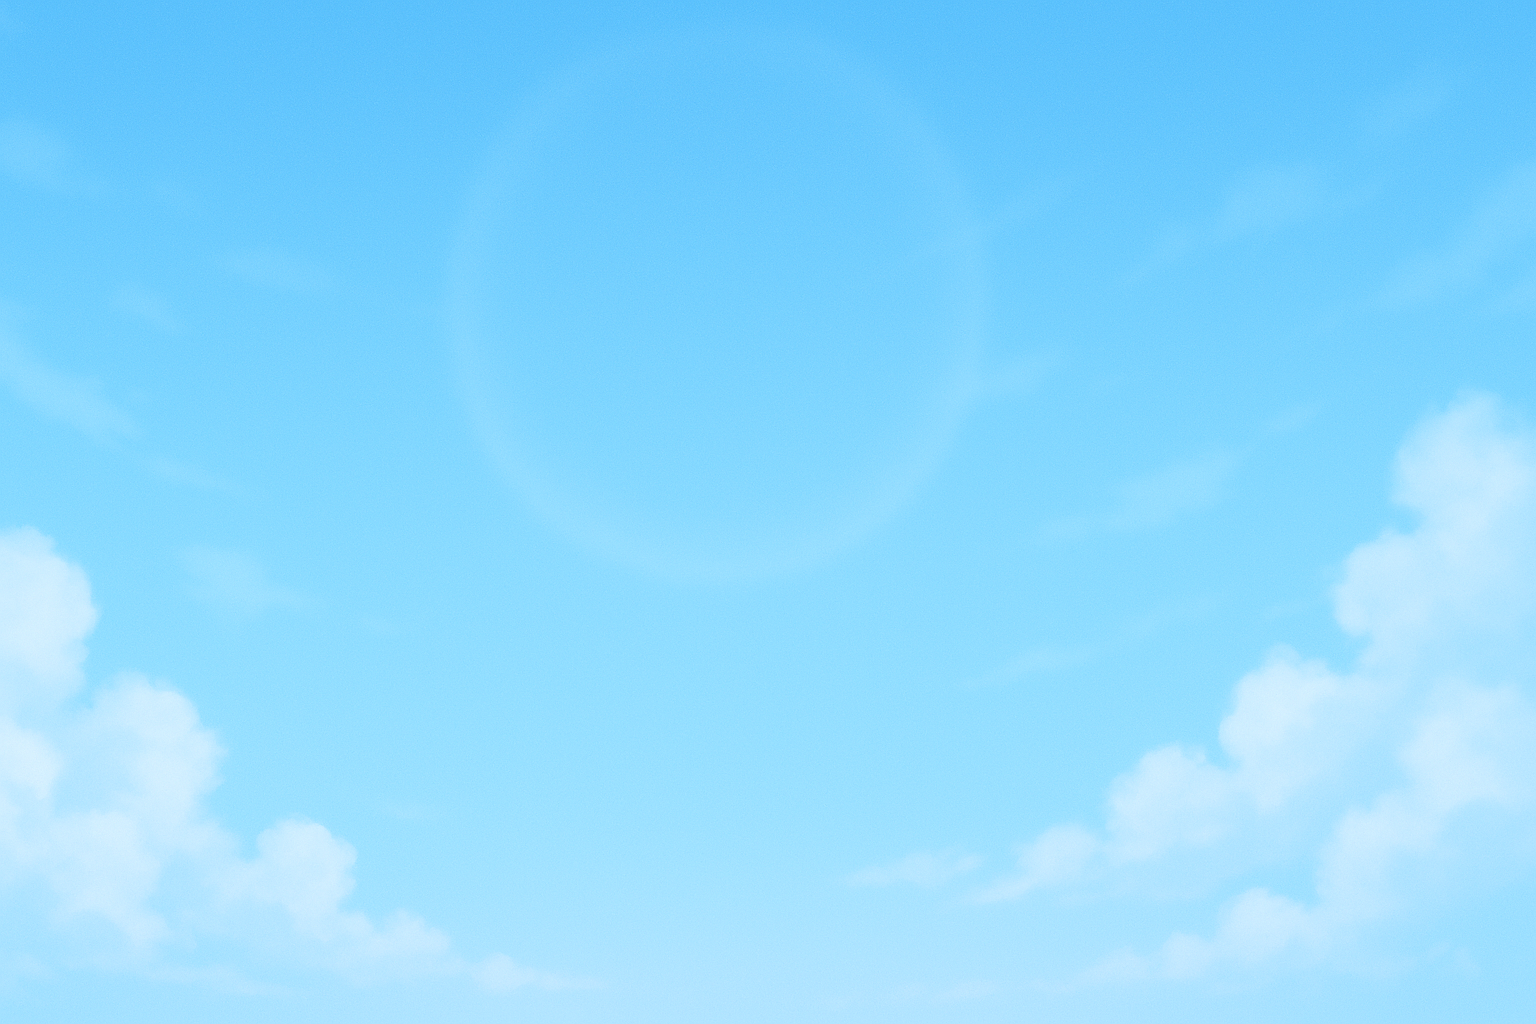
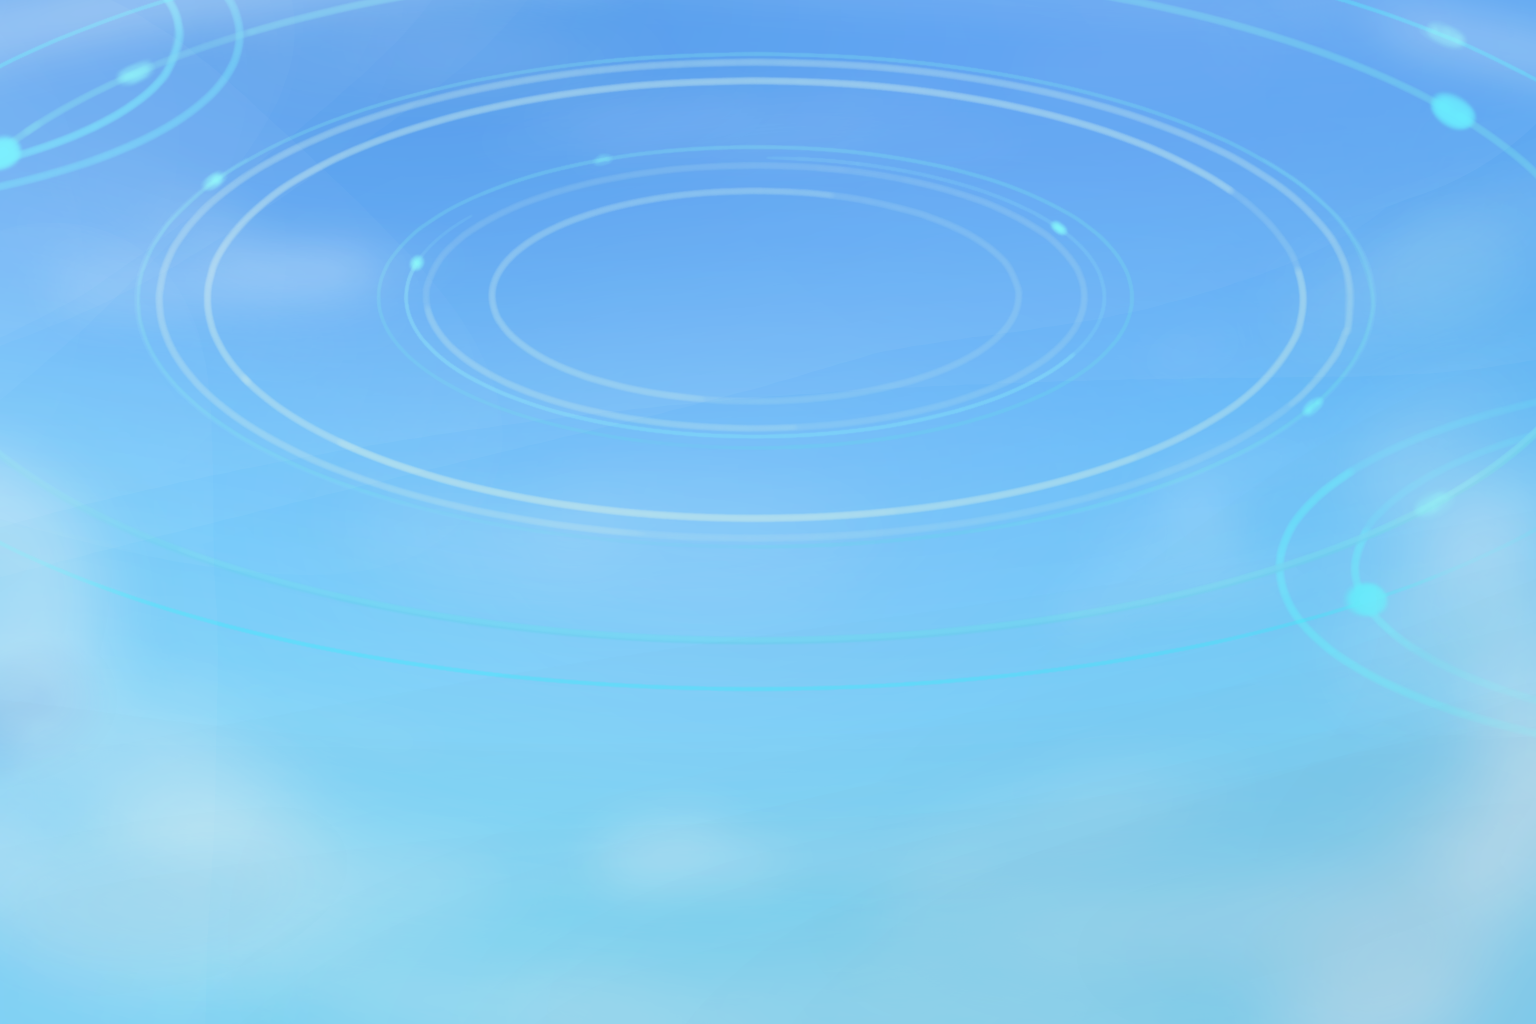
contributors, - 스크롤 내리면 나오는 인포 아래 파일로 수정
[인포_최최종.zip]

- 웹 사이트 배경 이미지 변경

- 공식웹x 표기, 라이센스 추가

diff --git a/index.html b/index.html
@@ -142,7 +142,6 @@
 
     /* ===== Mobile layout (≤900px): 하단 배너 아래에 좌/우 버튼 배치 ===== */
     @media (max-width: 900px){
-      /* 하단 영역을 2행 그리드로: 1행=배너(2칸), 2행=왼쪽/오른쪽 버튼 */
       .hero-bottom{
         display:grid;
         grid-template-columns: 1fr 1fr;
@@ -154,65 +153,35 @@
         row-gap:.6rem;
         column-gap:.75rem;
         width:100%;
-        /* 좌우/하단 여백 + 노치/홈 인디케이터 안전영역 */
         padding: .25rem 16px calc(14px + env(safe-area-inset-bottom, 0px));
       }
-
-      /* 배너는 1행 전체 */
-      .hero-banner.hero-banner-bottom{
-        grid-area: banner;
-        margin: .35rem 0 .15rem 0; /* 배너 아래 공간 조금 */
-      }
-
-      /* 데스크톱용 절대배치/트랜스폼 해제하고, 그리드 셀 중앙 정렬 */
+      .hero-banner.hero-banner-bottom{ grid-area: banner; margin: .35rem 0 .15rem 0; }
       .hero-location-shell,
-      .hero-play-shell{
-        position: static;
-        transform: none;
-        pointer-events: none; /* 내부 이미지만 클릭 */
-        width: 100%;
-        display: flex;
-        justify-content: center;
-      }
+      .hero-play-shell{ position: static; transform: none; pointer-events: none; width: 100%; display: flex; justify-content: center; }
       .hero-location-shell{ grid-area: left; }
       .hero-play-shell{ grid-area: right; }
-
-      /* 버튼 크기: 너무 크거나 작지 않게, 화면 안쪽으로 */
-      .hero-location,
-      .hero-play{
-        pointer-events: auto;
-        width: clamp(140px, 42vw, 200px);
-        height: auto;
-        max-width: 200px;
-      }
-
-      /* 히어로 본체/배너 크기 약간 보수 */
+      .hero-location, .hero-play{ pointer-events:auto; width: clamp(140px, 42vw, 200px); height:auto; max-width:200px; }
       .hero-img{ max-width:78vw; max-height:56vh; }
       .hero-banner{ width:min(320px,78vw); }
     }
 
-    /* iOS/Safari에서 fixed 배경 이슈 회피 */
     @media (max-width: 900px){
       body{
           background-image: url('./assets/background_mobile.png?v=1');
-          background-attachment: scroll;   /* fixed → scroll (모바일에서 튀는 현상 방지) */
+          background-attachment: scroll;
           background-position: center top;
           background-size: cover;
       }
     }
 
-    /* ===== Scroll indicator (hero의 직속 자식으로 배치) ===== */
+    /* ===== Scroll indicator ===== */
     .scroll-indicator{
-      position:absolute;      /* 부모: .hero */
-      bottom:14px;
-      left:50%;
-      transform:translateX(-50%);
+      position:absolute;
+      bottom:14px; left:50%; transform:translateX(-50%);
       display:flex; flex-direction:column; align-items:center;
       font-size:12px; font-weight:700; letter-spacing:.08em;
-      color:#e2e8f0; opacity:.9;
-      animation:bounce 1.8s infinite;
-      pointer-events:none;
-      z-index:1000;
+      color:#e2e8f0; opacity:.9; animation:bounce 1.8s infinite;
+      pointer-events:none; z-index:1000;
       text-shadow:0 2px 10px rgba(0,0,0,.35);
       will-change: transform, opacity;
     }
@@ -220,7 +189,6 @@
     @keyframes bounce{ 0%,100%{transform:translate3d(-50%,0,0)} 50%{transform:translate3d(-50%,6px,0)} }
     .scroll-indicator.hide{ opacity:0; transition:opacity .4s ease; }
 
-    /* ✅ Safari 전용 폴백: 사파리에서만 viewport 고정 */
     @supports (-webkit-touch-callout: none) {
       .scroll-indicator.is-safari-fixed{
         position: fixed;
@@ -229,9 +197,126 @@
         transform: translateX(-50%);
       }
     }
+
+    /* ===== Contributors (left fixed stack with icons) ===== */
+    .contributors{
+      position: fixed;
+      left: 12px;
+      top: 14px;
+      z-index: 60;
+      display: flex;
+      flex-direction: column;
+      gap: 10px;
+      pointer-events: none; /* 자식만 클릭 가능 */
+    }
+    .contributors a{
+      pointer-events: auto;
+      display: inline-flex;
+      align-items: center;
+      gap: 10px;
+      padding: 10px 12px;
+      min-height: 44px;
+      border-radius: 12px;
+      text-decoration: none;
+      font-weight: 800;
+      letter-spacing: .01em;
+      color: #e2e8f0;
+      background: rgba(15,23,42,.72);
+      border: 1px solid rgba(148,163,184,.22);
+      box-shadow: 0 8px 24px rgba(2,6,23,.28);
+      transition: transform .15s var(--ease), box-shadow .15s var(--ease), background .15s var(--ease);
+    }
+    .contributors a:hover,
+    .contributors a:focus-visible{
+      transform: translateY(-1px);
+      box-shadow: 0 12px 28px rgba(2,6,23,.38);
+      background: rgba(15,23,42,.82);
+      outline: none;
+    }
+    .contributors a svg{
+      width: 18px; height: 18px; flex:0 0 18px;
+      filter: drop-shadow(0 2px 6px rgba(0,0,0,.25));
+    }
+    .contributors a span{
+      max-width: 160px;
+      white-space: nowrap;
+      overflow: hidden;
+      text-overflow: ellipsis;
+    }
+    @media (max-width: 900px){
+      .contributors{ left:8px; top:8px; transform:scale(.92); gap:8px; }
+      .contributors a{ min-height:40px; padding:9px 10px; }
+    }
+    /* ===== Unofficial badge (bottom-right) ===== */
+    .unofficial-badge{
+      position: fixed;
+      right: max(8px, env(safe-area-inset-right, 0px));
+      bottom: max(10px, env(safe-area-inset-bottom, 0px));
+      z-index: 80;
+      display: inline-flex;
+      align-items: center;
+      gap: 8px;
+      padding: 8px 10px;
+      border-radius: 10px;
+      font-size: 12px;
+      line-height: 1.2;
+      font-weight: 700;
+      letter-spacing: .01em;
+      color: #e2e8f0;
+      background: rgba(15,23,42,.72);
+      border: 1px solid rgba(148,163,184,.24);
+      box-shadow: 0 8px 24px rgba(2,6,23,.28);
+      backdrop-filter: blur(6px);
+      text-decoration: none; /* 전체가 링크일 수도 있으니 기본 밑줄 제거 */
+      cursor: default;
+    }
+    .unofficial-badge small{
+      opacity: .85;
+      font-weight: 600;
+    }
+    .unofficial-badge a{
+      color: #c7d2fe; /* 살짝 푸른 강조 */
+      text-decoration: underline;
+      text-underline-offset: 2px;
+    }
+    .unofficial-badge:hover{
+      background: rgba(15,23,42,.82);
+      transform: translateY(-1px);
+      transition: all .15s var(--ease);
+    }
+
+    /* 더 작은 화면에서 살짝 축소 */
+    @media (max-width: 900px){
+      .unofficial-badge{
+        padding: 7px 9px;
+        font-size: 11px;
+        right: max(6px, env(safe-area-inset-right, 0px));
+        bottom: max(8px, env(safe-area-inset-bottom, 0px));
+      }
+    }
   </style>
 </head>
 <body>
+
+  <!-- ===== SVG ICON SPRITE (YouTube / X / GitHub / Link) ===== -->
+  <svg width="0" height="0" style="position:absolute;visibility:hidden" aria-hidden="true">
+    <symbol id="ic-youtube" viewBox="0 0 24 24">
+      <path d="M23.5 6.2a4 4 0 0 0-2.8-2.8C18.7 3 12 3 12 3s-6.7 0-8.7.4A4 4 0 0 0 .5 6.2 41 41 0 0 0 0 12a41 41 0 0 0 .5 5.8 4 4 0 0 0 2.8 2.8C5.3 21 12 21 12 21s6.7 0 8.7-.4a4 4 0 0 0 2.8-2.8A41 41 0 0 0 24 12a41 41 0 0 0-.5-5.8zM9.7 15.5V8.5l6.4 3.5-6.4 3.5z"/>
+    </symbol>
+    <symbol id="ic-x" viewBox="0 0 24 24">
+      <path d="M18.3 2H21l-6.3 7.2L22 22h-6.8l-5.3-6.9L3.7 22H1l6.8-7.7L2 2h6.9l5 6.6L18.3 2zm-2 18h2.2L7.9 4H5.6l10.7 16z"/>
+    </symbol>
+    <symbol id="ic-github" viewBox="0 0 24 24">
+      <path d="M12 .5a12 12 0 0 0-3.8 23.4c.6.1.8-.3.8-.6V21c-3.3.7-4-1.6-4-1.6-.6-1.4-1.3-1.8-1.3-1.8-1-.7.1-.7.1-.7 1.1.1 1.6 1.1 1.6 1.1 1 .1.7 1.8 2.9 1.3.1-.8.4-1.3.8-1.6-2.6-.3-5.4-1.3-5.4-6a4.6 4.6 0 0 1 1.2-3.2 4.3 4.3 0 0 1 .1-3.2s1-.3 3.3 1.2a11.4 11.4 0 0 1 6 0C16.5 3.9 17.5 4.2 17.5 4.2a4.3 4.3 0 0 1 .1 3.2 4.6 4.6 0 0 1 1.2 3.2c0 4.7-2.8 5.7-5.4 6 .4.3.8 1 .8 2v3c0 .3.2.7.8.6A12 12 0 0 0 12 .5z"/>
+    </symbol>
+    <symbol id="ic-link" viewBox="0 0 24 24">
+      <path d="M10.6 13.4a5 5 0 0 0 7.1 0l2-2a5 5 0 1 0-7.1-7.1l-1.6 1.6a1 1 0 1 0 1.4 1.4l1.6-1.6a3 3 0 1 1 4.3 4.3l-2 2a3 3 0 0 1-4.3 0 1 1 0 0 0-1.4 1.4z"/>
+      <path d="M13.4 10.6a5 5 0 0 0-7.1 0l-2 2a5 5 0 1 0 7.1 7.1l1.6-1.6a1 1 0 1 0-1.4-1.4l-1.6 1.6a3 3 0 1 1-4.3-4.3l2-2a3 3 0 0 1 4.3 0 1 1 0 0 0 1.4-1.4z"/>
+    </symbol>
+  </svg>
+
+  <!-- ===== 좌측 고정: 기여자 링크 리스트 ===== -->
+  <nav id="contributorsList" class="contributors hero-fade" aria-label="프로젝트 기여자"></nav>
 
   <!-- ===== Scroll Scene ===== -->
   <section class="scene" id="scene">
@@ -307,7 +392,7 @@
         if (infoImg.complete && infoImg.naturalWidth) {
           imgH = infoImg.naturalHeight * (renderedW / infoImg.naturalWidth);
         } else {
-          imgH = 8237 * (renderedW / 1500);
+          imgH = 8237 * (renderedW / 1500); // fallback ratio
         }
 
         const sceneH = vh + imgH + Math.max(0.01*vh, 1);
@@ -435,6 +520,76 @@
       const isSafari = /^((?!chrome|android).)*safari/i.test(ua);
       if(isSafari){ ind.classList.add('is-safari-fixed'); }
     })();
-  </script>
+
+    /* ===== 좌측 기여자 스택: 아이콘 포함 자동 렌더 ===== */
+      (function(){
+        const root = document.getElementById('contributorsList');
+        if(!root) return;
+
+        // ✅ 파일 아이콘 사용 예시 (SVG/PNG 모두 가능)
+        const CONTRIBUTORS = [
+          { name: '불카유카', url: 'https://www.youtube.com/@yuuka0314', icon: 'youtube' },
+          { name: '뚜니펭귄', url: 'https://x.com/ddunipeng?t=tmUWbVuvwOxBOBXGA4z4tA&s=09',     icon: 'x' },
+          { name: 'jwsts108', url: 'https://www.pixiv.net/users/100904459', iconPath: 'assets/logo/logo-pixiv.png' },
+          { name: '푸른새싹', url: 'https://artmug.kr/index.php?channel=view&uid=33982', iconPath: 'assets/logo/logo-artmug.png' },
+          { name: 'goms', url: 'https://github.com/goms7', icon: 'github' },
+          { name: 'devbyhwang', url: 'https://github.com/devbyhwang', icon: 'github' },
+        ];
+
+        const openAttrs = { target:'_blank', rel:'noopener noreferrer' };
+
+        // 내장 스프라이트(유튜브/X/GitHub/링크)도 fallback으로 유지
+        const spriteId = (kind)=>({
+          youtube: 'ic-youtube',
+          x: 'ic-x',
+          github: 'ic-github',
+          link: 'ic-link'
+        }[kind] || 'ic-link');
+
+        const makeIconNode = (c)=>{
+          // 1) 파일 경로가 있으면 <img>로 로드
+          if (c.iconPath){
+            const img = document.createElement('img');
+            img.src = c.iconPath;
+            img.alt = '';
+            img.width = 18; img.height = 18;
+            img.decoding = 'async';
+            img.loading = 'lazy';
+            img.className = 'icon img';
+            // 외부 CDN을 쓴다면: img.crossOrigin = 'anonymous';
+            return img;
+          }
+          // 2) 없으면 내장 스프라이트 사용
+          const svg = document.createElementNS('http://www.w3.org/2000/svg','svg');
+          svg.setAttribute('aria-hidden','true');
+          svg.classList.add('icon','svg');
+          const use = document.createElementNS('http://www.w3.org/2000/svg','use');
+          use.setAttributeNS('http://www.w3.org/1999/xlink','href',`#${spriteId(c.icon)}`);
+          svg.appendChild(use);
+
+          // 기본 톤 (배경이 어두워서 연한 색)
+          const fill = (c.icon==='youtube') ? '#ff4d4f'
+                    : (c.icon==='x' || c.icon==='github') ? '#e5e7eb'
+                    : '#9ec5ff';
+          svg.style.fill = fill;
+          return svg;
+        };
+
+        CONTRIBUTORS.forEach(c=>{
+          const a = document.createElement('a');
+          a.href = c.url; a.target = openAttrs.target; a.rel = openAttrs.rel;
+          a.setAttribute('aria-label', `${c.name}로 이동`);
+
+          a.appendChild(makeIconNode(c));
+          const label = document.createElement('span'); label.textContent = c.name;
+          a.appendChild(label);
+          root.appendChild(a);
+        });
+      })();
+    </script>
+    <div class="unofficial-badge" role="note" aria-label="비공식 팬 사이트 안내">
+      <span>비공식 팬 사이트</span>
+      <small>Not affiliated with NEXON</small>
+    </div>
 </body>
 </html>
